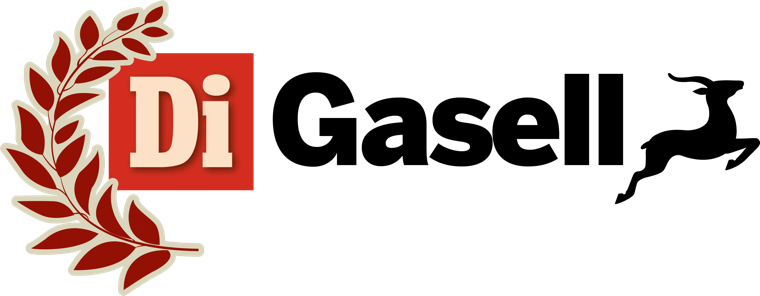
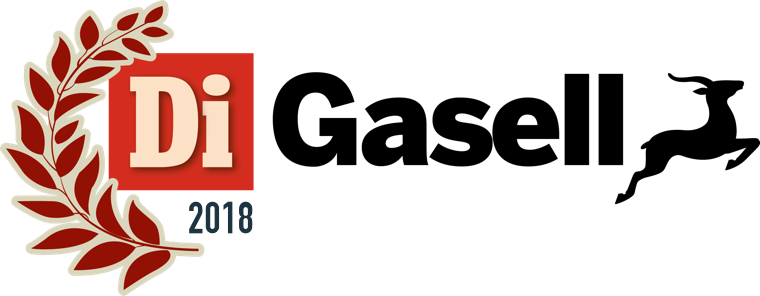
include '2018' in gasell-image

Changed region(s): [[0.2421, 0.6689, 0.3329, 0.7905]]

diff --git a/src/Gasell.module.css b/src/Gasell.module.css
@@ -10,7 +10,7 @@
 .image {
   width: 100%;
   height: 100%;
-  max-width: 30vw;
+  max-width: 25vw;
 }
 
 @media (max-width: 768px) {
